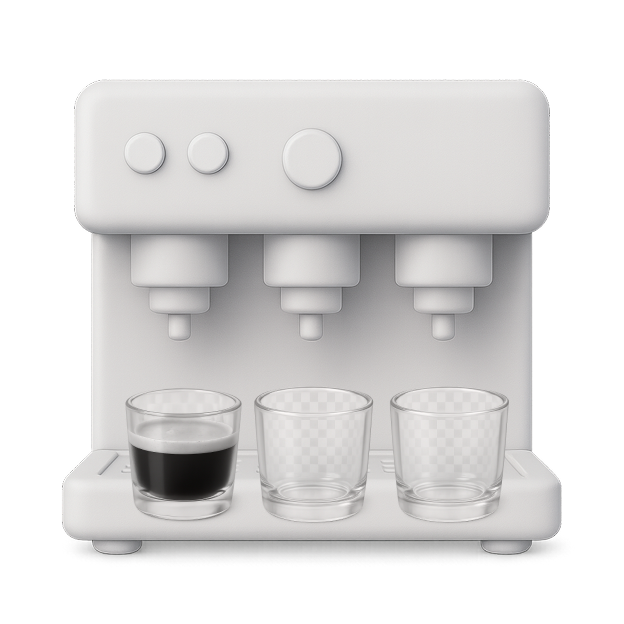
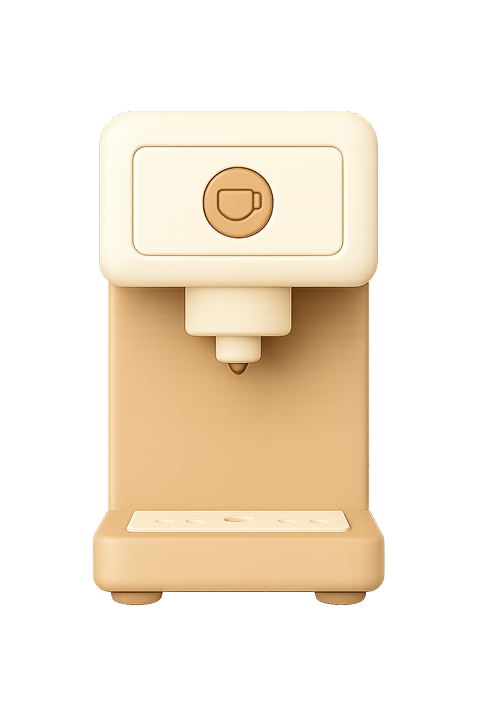
style: 라떼챗 사연함 메인 페이지 디자인 적용

diff --git a/src/features/letter/main/containers/JuniorRecentLetterListContainer/index.tsx b/src/features/letter/main/containers/JuniorRecentLetterListContainer/index.tsx
@@ -13,18 +13,29 @@ export default function JuniorRecentLetterListContainer({
   selectedLetter: Letter
   setSelectedLetter: React.Dispatch<React.SetStateAction<Letter | null>>
 }) {
+  const selectedIndex = letters.findIndex((l) => l.id === selectedLetter?.id)
+
   return (
-    <div className="flex w-full gap-1 overflow-hidden rounded-10 bg-gray-200 px-5 pb-4 pt-2">
+    <div className="shadow-border relative flex w-full gap-1 rounded-10 bg-[rgba(255,255,255,0.8)] px-5">
+      {selectedIndex !== -1 && (
+        <div
+          className="border-secondary-brown-2 absolute top-0 h-full w-[calc((100%-56px)/5)] rounded-10 border-[3px] shadow-[0_1px_3px_#C9A070] transition-transform duration-700 ease-in-out"
+          style={{
+            transform: `translateX(calc(${selectedIndex * 100}% + ${selectedIndex * 4}px))`,
+          }}
+        />
+      )}
+
       {letters.map((letter) => {
         return (
           <div
             key={letter.id}
-            className="flex flex-1 shrink-0 flex-col items-center justify-end"
+            className="relative flex h-full flex-1 shrink-0 flex-col items-center justify-end py-4"
           >
             {letter?.id === selectedLetter?.id && (
               <img
                 src="/icons/select-icon.svg"
-                className="aspect-square h-[0.625rem] w-[0.625rem] translate-y-1"
+                className="absolute top-0 aspect-square h-[0.625rem] w-[0.625rem] translate-y-1"
                 alt="선택 아이콘"
               />
             )}
@@ -35,7 +46,11 @@ export default function JuniorRecentLetterListContainer({
                 alt="사연 아이콘"
               />
             </button>
-            <span className="b6">
+            <span
+              className={`b6 ${
+                letter.status === 'DRAFT' ? 'text-gray-5' : 'text-black'
+              }`}
+            >
               {LETTER_STATUS_LABEL[letter.status].label}
             </span>
           </div>

diff --git a/src/features/letter/main/containers/SeniorRecentLetterListContainer/index.tsx b/src/features/letter/main/containers/SeniorRecentLetterListContainer/index.tsx
@@ -13,18 +13,29 @@ export default function SeniorRecentLetterListContainer({
   selectedLetter: Letter
   setSelectedLetter: React.Dispatch<React.SetStateAction<Letter | null>>
 }) {
+  const selectedIndex = letters.findIndex((l) => l.id === selectedLetter?.id)
+
   return (
-    <div className="flex w-full gap-1 overflow-hidden rounded-10 bg-gray-200 px-5 pb-4 pt-2">
+    <div className="shadow-border relative flex w-full gap-1 rounded-10 bg-[rgba(255,255,255,0.8)] px-5">
+      {selectedIndex !== -1 && (
+        <div
+          className="border-secondary-brown-2 absolute top-0 h-full w-[calc((100%-56px)/5)] rounded-10 border-[3px] shadow-[0_1px_3px_#C9A070] transition-transform duration-700 ease-in-out"
+          style={{
+            transform: `translateX(calc(${selectedIndex * 100}% + ${selectedIndex * 4}px))`,
+          }}
+        />
+      )}
+
       {letters.map((letter) => {
         return (
           <div
             key={letter.id}
-            className="flex flex-1 shrink-0 flex-col items-center justify-end"
+            className="relative flex h-full flex-1 shrink-0 flex-col items-center justify-end py-4"
           >
             {letter?.id === selectedLetter?.id && (
               <img
                 src="/icons/select-icon.svg"
-                className="aspect-square h-[0.625rem] w-[0.625rem] translate-y-1"
+                className="absolute top-0 aspect-square h-[0.625rem] w-[0.625rem] translate-y-1"
                 alt="선택 아이콘"
               />
             )}
@@ -35,7 +46,11 @@ export default function SeniorRecentLetterListContainer({
                 alt="사연 아이콘"
               />
             </button>
-            <span className="b6">
+            <span
+              className={`b6 ${
+                letter.status === 'DRAFT' ? 'text-gray-5' : 'text-black'
+              }`}
+            >
               {LETTER_STATUS_LABEL[letter.status].label}
             </span>
           </div>

diff --git a/src/features/letter/main/components/LetterAnswerVisual/index.tsx b/src/features/letter/main/components/LetterAnswerVisual/index.tsx
@@ -2,12 +2,12 @@ import Image from 'next/image'
 
 export default function LetterAnswerVisual() {
   return (
-    <div className="flex flex-col items-center">
+    <div className="relative flex flex-col items-center">
       <div className="relative flex items-start justify-center">
-        <div className="absolute -left-[0.7rem]">
+        <div className="absolute -left-10 top-3">
           <div className="relative inline-block pb-[0.625rem]">
-            <div className="b5 rounded-lg bg-white px-3 py-2">
-              사연이 도착했어요!
+            <div className="b5 shadow-border text-secondary-brown-4 rounded-lg bg-white px-3 py-2">
+              커피 머신을 눌러보세요.
             </div>
 
             <img
@@ -19,12 +19,14 @@ export default function LetterAnswerVisual() {
 
         <Image
           src="/images/coffee-machine-image.png"
-          width={208}
-          height={208}
+          width={159}
+          height={239}
           alt="커피머신 이미지"
         />
       </div>
-      <h1 className="h3">상대방의 고민은 무엇일까요?</h1>
+      <h1 className="h3 text-secondary-brown-5 absolute bottom-0">
+        상대방의 고민은 무엇일까요?
+      </h1>
     </div>
   )
 }

diff --git a/src/features/letter/main/components/GreetingTopBar/index.tsx b/src/features/letter/main/components/GreetingTopBar/index.tsx
@@ -3,13 +3,14 @@ import Link from 'next/link'
 export default function GreetingTopBar() {
   return (
     <div className="mb-3 flex items-start justify-between">
-      <p className="h3">느긋한 오후예요.</p>
+      <p className="h2 text-secondary-brown-5">느긋한 오후예요.</p>
       <div className="relative">
         <Link
           href={'/latte-chat/letters/archive'}
-          className="b6 rounded-[0.625rem] bg-white px-[0.625rem] py-2"
+          className="bg-secondary-brown-4 flex items-center gap-1 rounded px-2.5 py-1.5"
         >
-          글 보관함
+          <span className="b6 text-secondary-brown-1">글 보관함</span>
+          <img src="/icons/box-icon.svg" />
         </Link>
         <span className="b7 absolute -right-1 -top-3 flex items-center justify-center rounded bg-red-500 px-1 py-[2px] text-white">
           New

diff --git a/tailwind.config.js b/tailwind.config.js
@@ -34,14 +34,12 @@ module.exports = {
           error: '#DF1D1D',
           success: '#0073CB',
         },
-        backgroundImage: {
-          'latte-gradient-1':
-            'linear-gradient(180deg, #FFFFFF 0%, #E5CBA5 100%)',
-          'latte-gradient-2':
-            'linear-gradient(90deg, #FFFFFF 0%, #E5CBA5 100%)',
-          'latte-gradient-3':
-            'linear-gradient(180deg, #C494A1 0%, #D4CD48 50%, #D4CD48 100%)',
-        },
+      },
+      backgroundImage: {
+        'latte-gradient-1': 'linear-gradient(180deg, #E5CBA5  0%, #FFFFFF 68%)',
+        'latte-gradient-2': 'linear-gradient(90deg, #FFFFFF 0%, #E5CBA5 100%)',
+        'latte-gradient-3':
+          'linear-gradient(180deg, #C494A1 0%, #D4CD48 50%, #D4CD48 100%)',
       },
       minHeight: {
         main: 'calc(100svh - 5rem)',

diff --git a/src/app/latte-chat/letters/SeniorLettersContainer.tsx b/src/app/latte-chat/letters/SeniorLettersContainer.tsx
@@ -62,7 +62,7 @@ export default function SeniorLettersContainer() {
         <NavTabBar />
       </div>
 
-      <main className="flex h-auto min-h-[calc(100svh-11rem)] flex-col bg-gray-100 p-5">
+      <main className="bg-latte-gradient-1 flex h-auto min-h-[calc(100svh-11rem)] flex-col p-5">
         <GreetingTopBar />
 
         <section className="flex flex-col gap-[0.875rem]">
@@ -81,7 +81,7 @@ export default function SeniorLettersContainer() {
         <LetterActionSection
           href="/latte-chat/letters/1/answer/new"
           linkLabel="답변 쓰기"
-          description="샷을 눌러 사연을 확인해보세요."
+          description="버튼을 눌러 사연을 받아보세요."
         />
       </main>
     </div>

diff --git a/src/features/letter/main/components/LetterActionSection/index.tsx b/src/features/letter/main/components/LetterActionSection/index.tsx
@@ -13,11 +13,11 @@ export default function LetterActionSection({
     <div className="mt-10 flex flex-col items-center gap-1">
       <Link
         href={href}
-        className="h4 flex w-full items-center justify-center rounded-2xl bg-gray-300 py-4"
+        className="h4 bg-secondary-brown-2 text-secondary-brown-1 flex w-full items-center justify-center rounded-2xl py-4"
       >
         {linkLabel}
       </Link>
-      <p className="b6">{description}</p>
+      <p className="b6 text-gray-5">{description}</p>
     </div>
   )
 }

diff --git a/src/app/latte-chat/letters/JuniorLettersContainer.tsx b/src/app/latte-chat/letters/JuniorLettersContainer.tsx
@@ -62,7 +62,7 @@ export default function JuniorLettersContainer() {
         <NavTabBar />
       </div>
 
-      <main className="flex h-auto min-h-[calc(100svh-11rem)] flex-col bg-gray-100 p-5">
+      <main className="bg-latte-gradient-1 flex h-auto min-h-[calc(100svh-11rem)] flex-col p-5">
         <GreetingTopBar />
 
         <section className="flex flex-col gap-8">

diff --git a/src/app/latte-chat/letters/page.tsx b/src/app/latte-chat/letters/page.tsx
@@ -9,7 +9,7 @@ export default function LettersPage() {
 
   return (
     <>
-      {userInfo?.memberType === 'SENIOR' ? (
+      {userInfo?.memberType !== 'SENIOR' ? (
         <SeniorLettersContainer />
       ) : (
         <JuniorLettersContainer />
